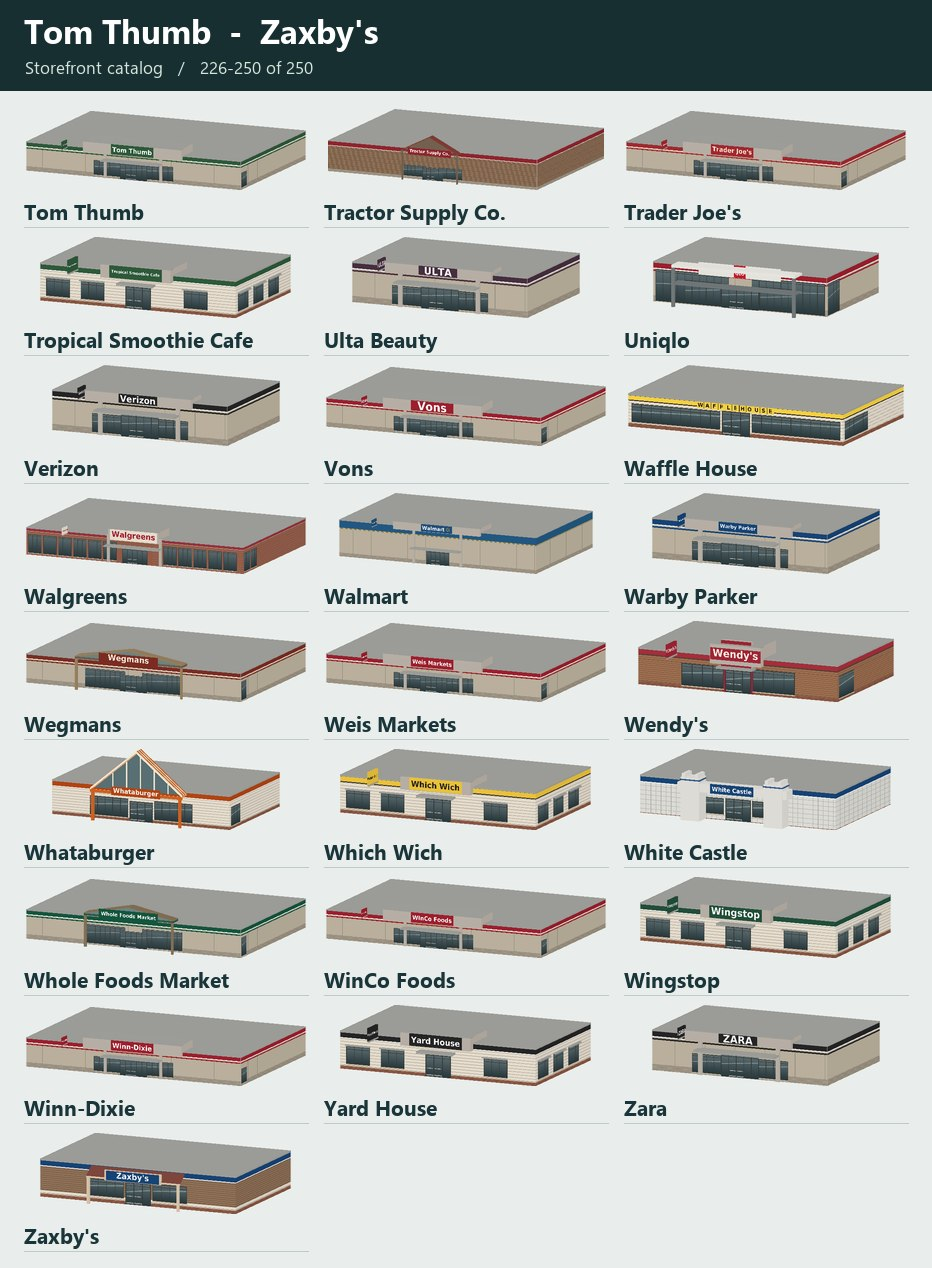
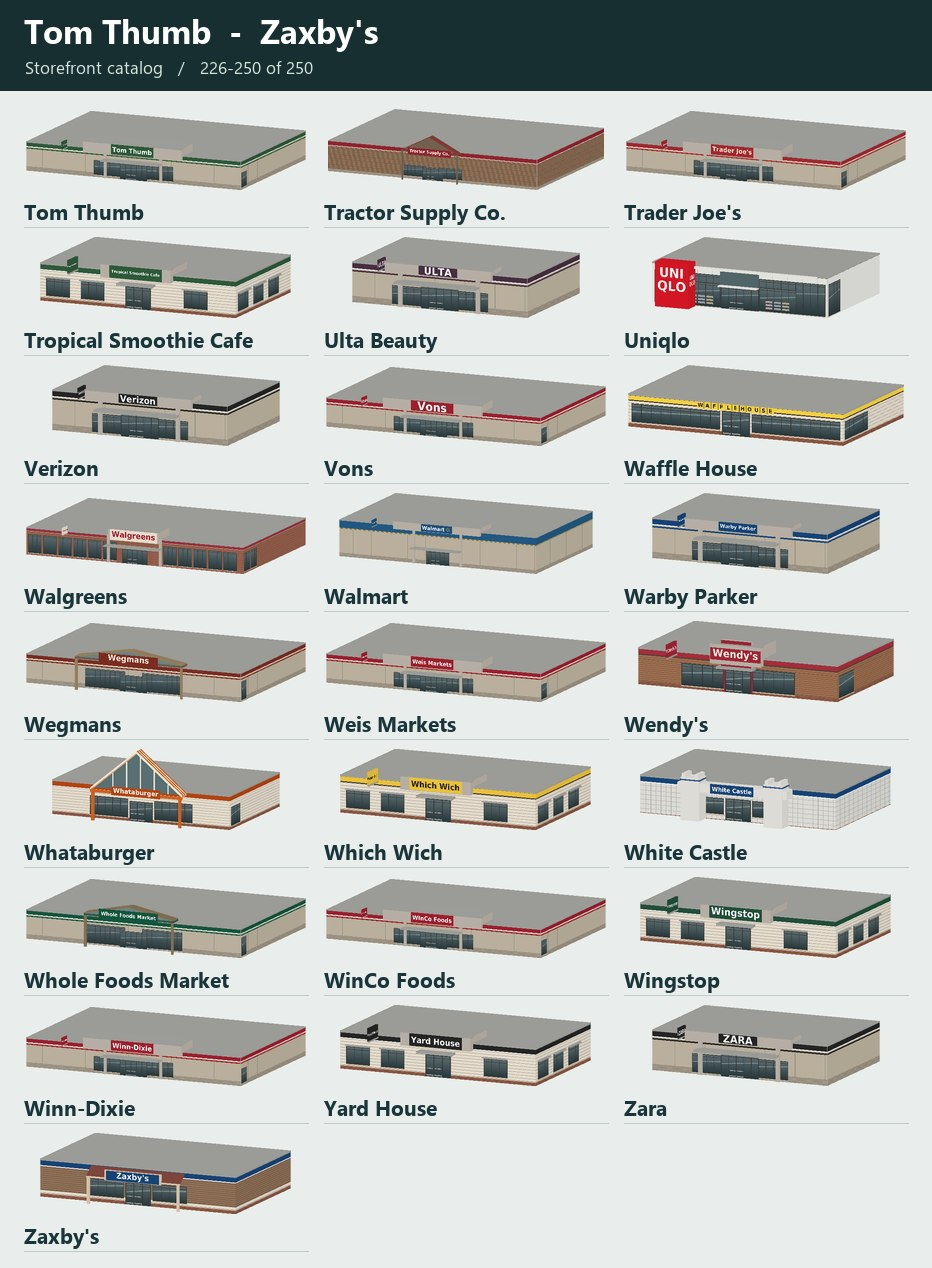
Give Uniqlo roadside and tenant stores distinct frontage

Changed region(s): [[0.6845, 0.1845, 0.9646, 0.2461]]

diff --git a/tools/storefronts/entrance_designs.py b/tools/storefronts/entrance_designs.py
@@ -62,7 +62,7 @@ DESIGNS = {
     "Lidl": Entrance("glazed_shed", "#485764", "#cbd1cf", 27),
     "Old Navy": Entrance("arched_glass", "#28445b", "#547589", 19),
     "Hollister": Entrance("shuttered_porch", "#5d5446", "#996149", 14),
-    "Uniqlo": Entrance("glass", "#f0eee9", "#777d7e", 20),
+    "Uniqlo": Entrance("cube_gallery", "#ecece7", "#777d7e", 25),
     "AMC Theatres": Entrance("cinema_lobby", "#bda78c", "#932a36", 32),
     "Apple Store": Entrance("glass", "#bdbfbb", "#626962", 23),
     "Crate & Barrel": Entrance("glass", "#ddd8cb", "#494a46", 20),
@@ -122,6 +122,7 @@ def draw(profile, span, height, vertex, mesh, texture, sign, symbol_only=False):
     eave = max(3.25, height-.45)
     sign_z, sign_depth, sign_h = eave, reach+.04, min(1.15, span*.095)
     sign_width = min(span*.69, sign_h*6)
+    sign_center = 0.
     if form in {"outfitter", "market", "glass", "step"}:
         sign_h = min(1.90, span * .115)
         sign_width = min(span * .75, sign_h * 7)
@@ -267,6 +268,29 @@ def draw(profile, span, height, vertex, mesh, texture, sign, symbol_only=False):
         sign_h = min(1.65,span*.10)
         sign_width = min(span*.82,sign_h*5.3)
         sign_z,sign_depth = base-sign_h*.5,.72
+    elif form == "cube_gallery":
+        # Keep the entry axis clear. Small bays carry the cabinet above the doors.
+        size = min(5.8, span*.28, height*.90)
+        left = -half
+        bottom = 0 if half-size >= 3.15 else 3.5
+        top = max(height+.7, bottom+size)
+        depth = min(size*.65, reach)
+        box(left,left+size,.02,depth,bottom,top,"#dc1826")
+        box(left+size,half,.02,.68,height-.34,height,field)
+        door_half = min(3.1,half-size)
+        box(-door_half,door_half,.02,.18,3.43,max(3.55,height-.34),"#55696c")
+        box(-door_half,door_half,.03,min(1.15,reach),3.41,3.55,field)
+        sign_h = sign_width = size*.93
+        sign_z,sign_depth = top-size*.5,depth+.012
+        sign_center = left+size*.5
+        # A square badge on the return is visible on an oblique approach.
+        side = depth*.88
+        middle = depth/2
+        corners = [vertex(left+size+.012,d,z) for d,z in
+                   ((middle+side/2,sign_z-side/2),(middle-side/2,sign_z-side/2),
+                    (middle-side/2,sign_z+side/2),(middle+side/2,sign_z+side/2))]
+        mesh([corners[i] for i in (0,1,2,0,2,3)], texture(sign(1.,side)),
+             [(0,1),(1,1),(1,0),(0,1),(1,0),(0,0)])
     elif form == "shuttered_porch":
         ridge = eave+min(1.9, half*.28)
         prism([(-half,eave),(half,eave),(0,ridge)],.02,reach-.12,field)
@@ -354,6 +378,7 @@ def draw(profile, span, height, vertex, mesh, texture, sign, symbol_only=False):
         sign_z = height - sign_h*.60
     x=sign_width/2
     lo,hi=sign_z-sign_h/2,sign_z+sign_h/2
-    corners=[vertex(-x,sign_depth,lo),vertex(x,sign_depth,lo),vertex(x,sign_depth,hi),vertex(-x,sign_depth,hi)]
+    corners=[vertex(sign_center-x,sign_depth,lo),vertex(sign_center+x,sign_depth,lo),
+             vertex(sign_center+x,sign_depth,hi),vertex(sign_center-x,sign_depth,hi)]
     mesh([corners[i] for i in (0,1,2,0,2,3)], texture(sign(sign_width/sign_h, sign_h)),
          [(0,1),(1,1),(1,0),(0,1),(1,0),(0,0)])

diff --git a/tools/storefronts/whole_store.py b/tools/storefronts/whole_store.py
@@ -143,6 +143,7 @@ DESIGN_GLAZING = {
     "glazed_shed": (11.,.15,4.1,4.),
     "cinema_lobby": PUBLIC_GLAZING["cinema"],
     "glass": (12., .12, 4.9, 5.),
+    "cube_gallery": (12., .12, 4.9, 5.),
 }
 CAFE_GLAZING.update({name: DESIGN_GLAZING[design.form] for name, design in entrance_designs.DESIGNS.items()})
 DINING["Cracker Barrel"] = ("timber", "#85634d", "#ebbd62", "#623520")
@@ -294,7 +295,8 @@ def elevation(
         if not observed_brick:
             for x in np.arange(3.6, width, 4.8):
                 rect(x, base, x + 0.045, height, "#998f82")
-        rect(0, height * 0.77, width, height * 0.80, ACCENTS[name])
+        if name != "Uniqlo":
+            rect(0, height * 0.77, width, height * 0.80, ACCENTS[name])
     if name in {"The Home Depot", "Lowe's"}:
         paint = "#dc671e" if name == "The Home Depot" else "#174b85"
         rect(0, height * 0.70, width, height - 0.22, paint)
@@ -380,7 +382,11 @@ def elevation(
         for row in range(4):
             for x in np.arange(-.6 + (row%2)*.3, width, .64):
                 rect(x, row*.33, x+.61, row*.33+.30, "#8f8373")
-    if name in FASCIA and name != "Cracker Barrel" and not lodge_walls:
+    if name == "Uniqlo" and not observed_brick and not photo_color:
+        rect(0,0,width,height,"#ecece7")
+        for joint in np.arange(2.4,width,2.4):
+            rect(joint,0,joint+.035,height,"#c4c7c3")
+    if name in FASCIA and name not in {"Cracker Barrel","Uniqlo"} and not lodge_walls:
         share, paint, trim = FASCIA[name]
         bottom = height * (1 - share) - 0.14
         rect(0, bottom, width, height - 0.14, paint)
@@ -478,6 +484,19 @@ def elevation(
                         rect(shutter-side_room*.07,z,shutter+side_room*.07,z+.12,"#63594b")
                 else:
                     glass(mid,side_room-.12,.12,min(3.65,height),False)
+                    if name == "Uniqlo":
+                        # Folded-clothing displays baked into the window texture.
+                        colors = ("#c2abb0","#9ca9b8","#b5ae93") if side_room >= 2.4 else ("#9ca9b8",)
+                        pitch = side_room*.69/len(colors)
+                        for column,color in enumerate(colors):
+                            start = mid + (column-len(colors)/2)*pitch
+                            end = start + pitch*.87
+                            for row in range(3):
+                                shelf = .52 + row*.47
+                                rect(start,shelf,end,shelf+.055,"#b5a18d")
+                                for layer in range(3):
+                                    y = shelf+.07+layer*.072
+                                    rect(start+.06,y,end-.06,y+.055,color)
     if name in {"Kroger", "Ace Hardware", "Target"}:
         for x in entries:
             for offset in (-4.9, 4.9):

diff --git a/tools/storefronts/brand_signs.py b/tools/storefronts/brand_signs.py
@@ -170,12 +170,25 @@ def artwork(name, width, font_path, height_m, surface):
         return img
     if name == "Uniqlo":
         canvas = Image.new("RGB", (width,200), "#eeece6")
-        size = min(width,196)
-        badge = Image.new("RGB",(196,196),"#c71d2d")
+        size = min(width,200)
+        badge = Image.new("RGB",(200,200),"#dc1826")
         pen = ImageDraw.Draw(badge)
-        for y,line in ((22,"UNI"),(100,"QLO")):
-            pen.text((98,y),line,font=ImageFont.truetype(font_path,67),anchor="mt",fill="white")
-        canvas.paste(badge.resize((size,size),Image.Resampling.LANCZOS),((width-size)//2,(200-size)//2))
+        for y,line in ((23,"UNI"),(101,"QLO")):
+            pen.text((100,y),line,font=ImageFont.truetype(font_path,78),anchor="mt",fill="white")
+        paired = width >= 2*size+10
+        left = (width-(2*size+10 if paired else size))//2
+        if paired:
+            # Draw ユニ / クロ as strokes so the offline generator needs no CJK font.
+            kana = Image.new("RGB",(200,200),"#dc1826")
+            ink = ImageDraw.Draw(kana)
+            for stroke in (((30,44),(75,44),(70,77)),((22,78),(87,78)),
+                           ((116,44),(172,44)),((110,77),(178,77)),
+                           ((48,113),(40,129),(26,140)),((45,121),(79,121),(67,150),(42,169)),
+                           ((116,122),(173,122),(173,165),(116,165),(116,119))):
+                ink.line(stroke, fill="white", width=8)
+            canvas.paste(kana,(left,0))
+            left += size+10
+        canvas.paste(badge.resize((size,size),Image.Resampling.LANCZOS),(left,(200-size)//2))
         return canvas
     if name == "In-N-Out Burger":
         master = Image.new("RGB", (480,200), "#fff1da")

diff --git a/server/threedmr.py b/server/threedmr.py
@@ -55,7 +55,7 @@ import staging
 
 log = logging.getLogger("earthd.threedmr")
 
-STOREFRONT_VERSION = 17  # Shared by generated model filenames and tile revisit keys.
+STOREFRONT_VERSION = 18  # Shared by generated model filenames and tile revisit keys.
 TAG_KEY = "3dmr"
 API_URL = "https://3dmr.eu/api/model/{}"
 SEARCH_URL = "https://3dmr.eu/api/search/{lat:.6f}/{lon:.6f}/{range_m}"

diff --git a/tools/storefronts/README.md b/tools/storefronts/README.md
@@ -20,12 +20,15 @@ shared storefront panel. Standalone Cracker Barrel stores have a timber porch an
 four-sided footprints also support a pitched roof. Waffle House uses a low glazed diner, and
 IKEA uses a tall blue warehouse with a yellow canopy. Bass Pro Shops can use a projecting lodge
 entrance with a timber truss and stone bases when one customer entrance has enough wall on each side.
-An additional 51 brands use 21 reusable entrance designs in `entrance_designs.py`, including
+An additional 51 brands use 22 entrance designs in `entrance_designs.py`, including
 striped gables, low hipped roofs, castle towers, three-arch arcades, porches, outfitter gables,
 market halls, coffee canopies, diner fins, stepped signs, glazed showrooms and an arched cinema lobby. A standalone AMC with at least 16 m of clear entrance frontage can get a tall glass arch, paired doors and a deep marquee. Each entrance
 fits between its neighbouring doors and wall ends. Publix and Harris Teeter use different
 crowns above their entrance windows. Lidl uses a sloped glazed entrance. Old Navy,
 Hollister and Uniqlo also adapt their display windows to the available tenant frontage.
+Uniqlo uses a projecting red sign cabinet on standalone stores. A wide tenant fascia
+can carry the Japanese and English square marks side by side. The large roadside
+format draws on the [Maebashi Minami IC store](https://www.fastretailing.com/eng/ir/library/pdf/ar2023_en_05.pdf).
 A narrow entrance or a shared service wall
 uses the existing building design. The catalog represents typical formats, including some
 classic restaurant designs. Map records rarely identify the renovation era of an individual branch.

diff --git a/tools/storefronts/catalog/README.md b/tools/storefronts/catalog/README.md
@@ -4,7 +4,7 @@ All 250 supported chains, rendered from generated GLBs on sample footprints. Eac
 
 ![Twelve storefront examples](overview.jpg)
 
-[Cinema lobby comparison](amc-comparison.jpg) · [Six storefronts before and after the architecture pass](architecture-comparison.jpg) · [Grocery and apparel comparison](grocery-apparel.jpg)
+[Cinema lobby comparison](amc-comparison.jpg) · [Six storefronts before and after the architecture pass](architecture-comparison.jpg) · [Grocery and apparel comparison](grocery-apparel.jpg) · [Uniqlo from driver height](uniqlo-comparison.jpg)
 
 | Entries | Catalog sheet |
 | --- | --- |
